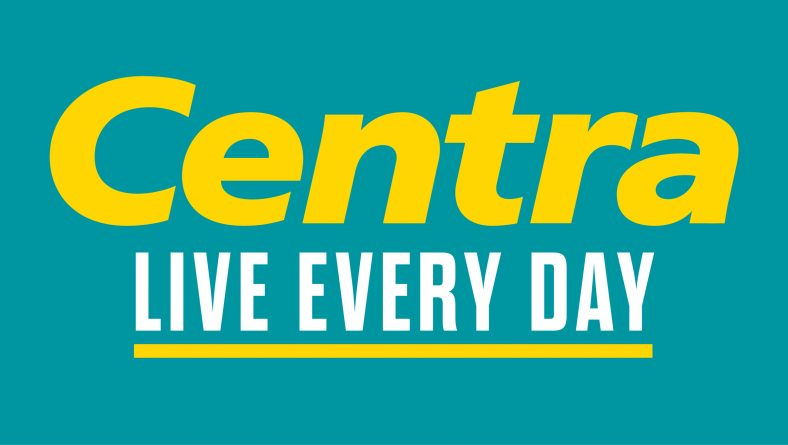
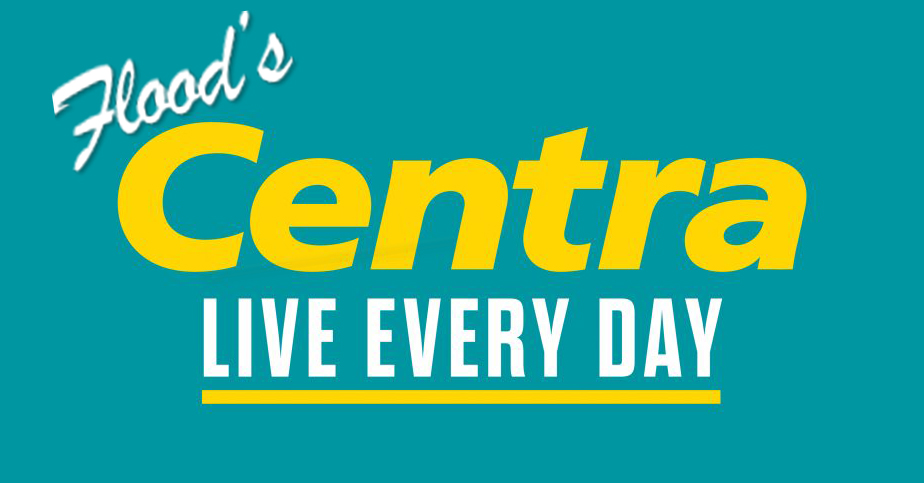
Email Set ups

diff --git a/index.html b/index.html
@@ -6,9 +6,9 @@
 
     <meta charset="utf-8">
     <meta http-equiv="x-ua-compatible" content="ie=edge">
-    <title>Floods</title>
-    <meta name="description" content="Get in touch">
-    <meta name="keywords" content="">
+    <title>Floods Centra</title>
+    <meta name="description" content="Fill out this form and we'll bring your products right to your door!">
+    <meta name="keywords" content="Floods Centra, Centra Ramsgrange, Centra Online Deliveries">
     <meta name="viewport" content="width=device-width, initial-scale=1, shrink-to-fit=no">
 
     <link rel="stylesheet" href="https://maxcdn.bootstrapcdn.com/bootstrap/4.0.0/css/bootstrap.min.css" integrity="sha384-Gn5384xqQ1aoWXA+058RXPxPg6fy4IWvTNh0E263XmFcJlSAwiGgFAW/dAiS6JXm" crossorigin="anonymous">
@@ -16,12 +16,13 @@
     <!--style css
             ============================================ -->
     <link href="css/style.css" rel="stylesheet">
-    <!----<link rel="shortcut icon" href="img/favicon.png">-->
+
 
     <link href="css/magnific-popup.css" rel="stylesheet">
 
+    <script src="https://www.google.com/recaptcha/api.js"></script>
 
-    <!-- animated css
+    <!-- animated css   
             ============================================ -->
     <link href="css/animated.css" rel="stylesheet">
     <!-- slicknav css
@@ -38,12 +39,12 @@
 
     <script src="https://code.jquery.com/jquery-3.5.1.min.js"></script>
 
-    <script type="text/javascript" src="jqufery.ihavecookies.js"></script>
+    <script type="text/javascript" src="jquery.ihavecookies.js"></script>
 
     <script type="text/javascript">
         var options = {
             title: '&#x1F36A; Accept Cookies',
-            message: 'This website uses cookies to ensure you get the best experience on our website.',
+            message: 'We use cookies to ensure you get the best experience on our website.',
             delay: 600,
             expires: 60,
             link: 'https://centra.ie/cookies',
@@ -63,8 +64,9 @@
         $(document).ready(function() {
             $('body').ihavecookies(options);
 
+            ///If cookies have ben accepted, do something
             if ($.fn.ihavecookies.preference('marketing') === true) {
-                console.log('This should run because marketing is accepted.');
+                console.log('Cookies have already been accepted');
             }
 
             $('#ihavecookiesBtn').on('click', function() {
@@ -80,25 +82,25 @@
     <header class="welcome-header-area" id="home">
         <div class="container-fluid" style="color: black;">
             <center>
-                <img src="Centra.jpg" style="height: 100pt; margin-top:20px" />
+                <img src="Centra.jpg" style="height: 120pt; margin-top:20px" />
                 <h1 style="margin: 20px 0px 20px 0px; color: #0096a1">Collection / Delivery E-Form</h1>
             </center>
         </div>
     </header>
 
-    <form action="php/test.php" method="post" enctype="multipart/form-data">
+    <form action="php/contact.php" method="post" enctype="multipart/form-data">
         <section class="firstDets">
             <div class="container">
                 <div class="row">
                     <div class="col-lg-6">
                         <label for="name">Name</label>
-                        <input type="text" class="form-control" id="name" placeholder="Name" required name="name" />
+                        <input type="text" class="form-control" id="name" placeholder="Enter name" required name="name" />
                     </div>
                 </div>
                 <div class="row">
                     <div class="col-lg-6">
                         <label for="number">Phone Number</label>
-                        <input type="text" class="form-control" id="number" placeholder="(085) 123 4567" required name="phone" />
+                        <input type="text" class="form-control" id="number" placeholder="Enter Phone Number" required name="phone" />
                     </div>
                 </div>
                 <div class="row">
@@ -108,7 +110,7 @@
                             <span class="input-group-addon">
                                 <span class="glyphicon glyphicon-envelope"></span>
                             </span>
-                            <input type="email" name="email" class="form-control" id="email" placeholder="name@email.com" required style="width: 100%;" />
+                            <input type="email" name="email" class="form-control" id="email" placeholder="Enter email" required style="width: 100%;" />
                         </div>
                     </div>
 
@@ -130,10 +132,10 @@
                             <span class="input-group-addon">
                                 <span class="glyphicon glyphicon-envelope"></span>
                             </span>
-                            <textarea name="address" id="address" class="form-control" rows="4" cols="1" placeholder="Address"></textarea>
+                            <textarea name="address" id="address" class="form-control" rows="4" cols="1" placeholder="Enter Address"></textarea>
                         </div>
                         <br>
-                        <input type="text" class="form-control" id="eircode" placeholder="Y34FX31" name="eircode" style="width:150px" />
+                        <input type="text" class="form-control" id="eircode" placeholder="Eircode" name="eircode" style="width:150px" />
 
                         <i><a href="https://finder.eircode.ie/#/" target="_blank"
                                 style="color: grey;font-size: 12px;">Find my eircode</a></i>
@@ -183,7 +185,7 @@
                     <div class="col-lg-6 col-sm-6 formElement">
                         <div class="row">
                             <div class="col-10 col-lg-7 col-sm-7">
-                                <input id="singleProduct" required name="product0" class="form-control" rows="1" placeholder="Brand product"></input>
+                                <input id="singleProduct" required name="product0" class="form-control" rows="1" placeholder="Product name"></input>
                             </div>
 
                             <div class="col-4 col-lg-3 col-sm-4">
@@ -237,16 +239,14 @@
             <div class="row">
                 <div class="col-sm-12 col-lg-6">
                     <h6>About</h6>
-                    <p class="text-justify">This store is located in Ramsgrange and caters for all the needs of the local community. It is well known by all the people who holiday in this area of South Wexford
+                    <p>This store is located in Ramsgrange and caters for all the needs of the local community. It is well known by all the people who holiday in this area of South Wexford
                     </p>
                 </div>
 
                 <div class="col-xs-6 col-lg-3">
                     <h6>Contact us</h6>
-
-                    <p>Ramsgrange, New Ross, Co. Wexford</p>
                     <p>(051) 389 170</p>
-
+                    <p>Ramsgrange, New Ross, Co. Wexford</p>
 
                 </div>
 

diff --git a/thanks.html b/thanks.html
@@ -4,13 +4,10 @@
 <head>
     <meta charset="utf-8">
     <meta http-equiv="x-ua-compatible" content="ie=edge">
-    <title>Thank you</title>
-    <meta name="description" content="Thank you for contacting us">
+    <title>Floods Centra</title>
+    <meta name="description" content="Thank you for contacting us page">
     <meta name="viewport" content="width=device-width, initial-scale=1">
-    <meta name="robots" content="noindex">.
-    <!-- Favicon
-            ============================================ -->
-    <link rel="shortcut icon" href="img/favicon.png">
+
     <!-- bootstrap css
             ============================================ -->
     <link href="css/bootstrap.min.css" rel="stylesheet">
@@ -29,60 +26,23 @@
 
 <body>
 
-    <!-- start welcome-header-area -->
-    <header class="welcome-header-area" id="home">
-
-    </header>
-    <!-- end welcome-header-area -->
-
     <!--start about-us area-->
     <section class="about-us-area ptb-100" id="about">
         <div class="container">
-            <div class="row" style = "margin-top:200pt;">
+            <div class="row" style = "margin-top:120pt;">
                 <center>
                     <div class="thanks">
-                        <h1 style="font-size:100px">Thank You</h1>
-                        <p style="font-size:40px;line-height: 50px;">We will email and text you when your order is ready</p>
+                        <h1 style="font-size:80px">Thank You!</h1>
+                        <p style="font-size:30px;line-height: 50px;">A member of the team will be in touch within 1 working day</p>
+                        <p style="font-size:18px;line-height: 50px;">You can continue surfing the web  &#128516;</p>
+                        <a href = "https://www.facebook.com/FloodsCentraRamsgrange"><img src = "Floods Logo.png" style="width:100px"/></a>
                     </div>
                 </center
 
             </div>
         </div>
     </section>
-    <!--end about-us area-->
-    <!-- start call-to-action area -->
 
-    <!--  end testimonial-area  -->
-    <!-- start footer-area -->
-    <!-- start footer-area -->
-    <footer class="footer-area">
-            
-
-        </footer>
-
-    <!-- end footer-area-->
-
-
-    <!-- JQuery js-->
-    <script src="js/vendor/jquery-2.2.4-min.js"></script>
-    <!-- bootstrap js -->
-    <script src="js/bootstrap.min.js"></script>
-    <!-- owl-carousel js -->
-    <script src="js/owl.carousel.min.js"></script>
-    <!-- wow-1.3.0 js -->
-    <script src="js/wow-1.3.0.min.js"></script>
-    <!-- jquery nav js -->
-    <script src="js/jquery.nav.js"></script>
-    <!-- isotope-pkgd js -->
-    <script src="js/isotope.pkgd.min.js"></script>
-    <!-- magnific-popup js -->
-    <script src="js/jquery.magnific-popup.min.js"></script>
-    <!-- slicknav js -->
-    <script src="js/jquery.slicknav.min.js"></script>
-    <!-- animate-headline js -->
-    <script src="js/animate-headline.js"></script>
-    <!-- main js -->
-    <script src="js/main.js"></script>
 
 
 </body>

diff --git a/Common/productField.html b/Common/productField.html
@@ -1,7 +1,7 @@
 <div class="col-lg-6 col-sm-6 formElement">
     <div class="row">
         <div class="col-10 col-lg-7 col-sm-7">
-            <input id="singleProduct" name="product1" class="form-control" rows="1" placeholder="Brand product"></input>
+            <input id="singleProduct" name="product1" class="form-control" rows="1" placeholder="Product name"></input>
         </div>
 
         <div class="col-4 col-lg-3 col-sm-4">

diff --git a/php/contact.php b/php/contact.php
@@ -3,7 +3,8 @@
 
 
 /* Set e-mail recipient */
-$myemail  = "name@gmail.com";
+$shopEmail  = "name@gmail.com";
+$developerEmail  = "name@gmail.com";
 
 /* Check all form inputs using check_input function */
 $name = check_input($_POST['name'], 'Name');
@@ -13,17 +14,10 @@ $address = $_POST["address"];
 $eircode = $_POST["eircode"];
 $isDelivery = check_input($_POST["collDel"], 'Collection');
 
-///Product & weight info
-
 //$maxNum = check_input($_POST['maxNum'], 'No max num');
 
-/* If e-mail is not valid show error message */
-if (!preg_match("/([\w\-]+\@[\w\-]+\.[\w\-]+)/", $email))
-{
-    show_error("E-mail address not valid");
-}
-
 $max = $_POST['maxNum'];
+$actualMax = 0;
 
 for($i = 0; $i <= $max; $i++)
 {
@@ -31,11 +25,52 @@ for($i = 0; $i <= $max; $i++)
     {
         $product = $_POST['product'. $i];
         $weight = $_POST['weight'. $i];
-        $allProducts .= $i . '. ' .  $product . ' ' . $weight . PHP_EOL;
-    
+        $actualMax += 1;
+        $allProducts .= $actualMax . '. ' .  $product . '  x' . $weight . PHP_EOL;
     }   
+    else{
+        continue;
+    }
 }
 
+/* If e-mail is not valid show error message */
+if (!preg_match("/([\w\-]+\@[\w\-]+\.[\w\-]+)/", $email))
+{
+    show_error("E-mail address not valid");
+}
+
+
+$customerMessage = 
+"Thank you for your order!
+
+Below are the details submitted
+
+
+Name: $name
+
+E-mail: $email
+
+Phone Number: $number
+
+Collection / Delivery: $isDelivery
+
+Address
+$address
+
+Eircode
+$eircode
+
+Products:
+$allProducts
+
+
+Total: $actualMax
+
+
+Contact (051) 389 170
+Flood's Centra
+Ramsgrange, New Ross, Co. Wexford
+";
 
 
 /* message for the e-mail */
@@ -49,20 +84,33 @@ Phone Number: $number
 
 Collection / Delivery: $isDelivery
 
+Address
+$address
+
+Eircode
+$eircode
+
 Products:
 $allProducts
 
 
+Total: $actualMax
 
-
-End of message
+End of Message
 ";
 
 
-//Total: $actualMax
-//Product count: $productCount
+
 /* Send the message using mail() function */
-mail($myemail, "New Online Order!", $message);
+
+
+mail($shopEmail, "New Online Order!", $message);
+
+//Customer Confirmation
+mail($email, "Flood's Order confirmation", $customerMessage);
+
+///Sent for to me
+mail($developerEmail, "New Online Order!", $message);
 
 /* Redirect visitor to the thank you page */
 header('Location: ../thanks.html');
@@ -84,13 +132,16 @@ function check_input($data, $problem='')
 
 function show_error($myError)
 {
+    mail("deividov2000@gmail.com", "WEBSITE ERROR", "The error was " . $myError);
+
 ?>
     <html>
     <body>
-
-    <b>Please correct the following error:</b><br />
-    <?php echo $myError; ?>
-
+    <h2>Oh no!</h2>
+    <p>Something went wrong. Our developers have been notified and it'll get fixed asap!</p>
+    <p>Please try again</p>
+    <br/>
+    <a href = "http://deividasovs.com/assets/websites/CentraWeb/index"><button>Back</button></a>
     </body>
     </html>
 <?php
